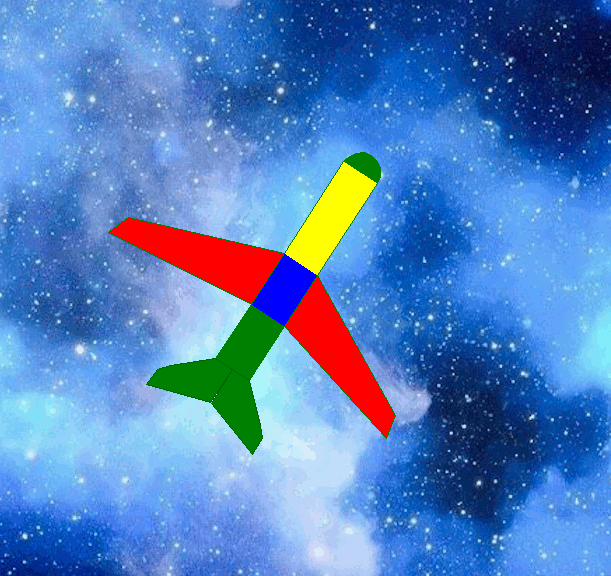
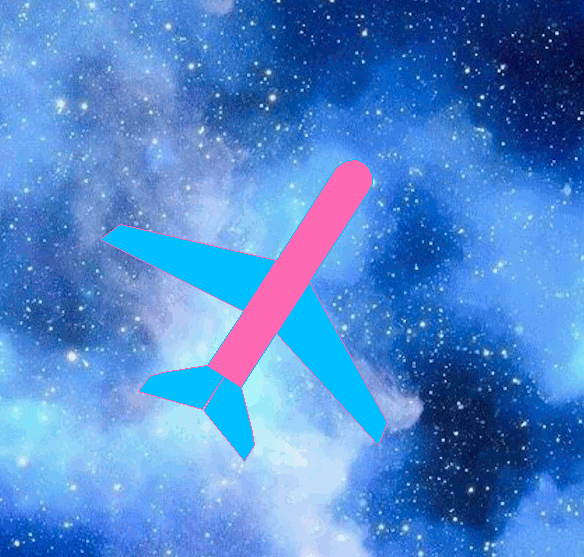
modification sur avion

diff --git a/avion.py b/avion.py
@@ -13,15 +13,13 @@ def avion():
     set_move(pos()[0] + 70, pos()[1] + 100)
     
     #Tete Avion
-    pencolor("green")
-    fillcolor("green")
+    pencolor("deepskyblue")
+    fillcolor("hotpink")
     begin_fill()
     demi_cercle(20)
     end_fill()
     
     #Corps Avion
-    pencolor("green")
-    fillcolor("yellow")
     begin_fill()
     forward(110)
     positionA1 = position()
@@ -41,28 +39,10 @@ def avion():
     positionA2 = position()
     fd(110)
     end_fill()
-    #Precisons une couleur pour le milieu de l'avion
-    pencolor("blue")
-    fillcolor("blue")
-    set_move(positionA1)
-    begin_fill()
-    setpos(positionA1fin)
-    setpos(positionA2fin)
-    setpos(positionA2)
-    end_fill()
-    #Precisons une couleur pour l'arriere de l'avion (non compris le queue)
-    pencolor("green")
-    fillcolor("green")
-    set_move(positionA1fin)
-    begin_fill()
-    setpos(positionqueue1)
-    setpos(positionqueue2)
-    setpos(positionA2fin)
-    end_fill()
-
+   
     #Ails
-    pencolor("green")
-    fillcolor("red")
+    pencolor("hotpink")
+    fillcolor("deepskyblue")
     #AilGauche
     begin_fill()
     set_move(positionA1)
@@ -86,8 +66,8 @@ def avion():
     setpos(positionA2)
     end_fill()
 
-    pencolor("darkgreen")
-    fillcolor("green")
+    pencolor("hotpink")
+    fillcolor("deepskyblue")
     #QueueGuauche
     begin_fill()
     set_move(positionqueue1)
